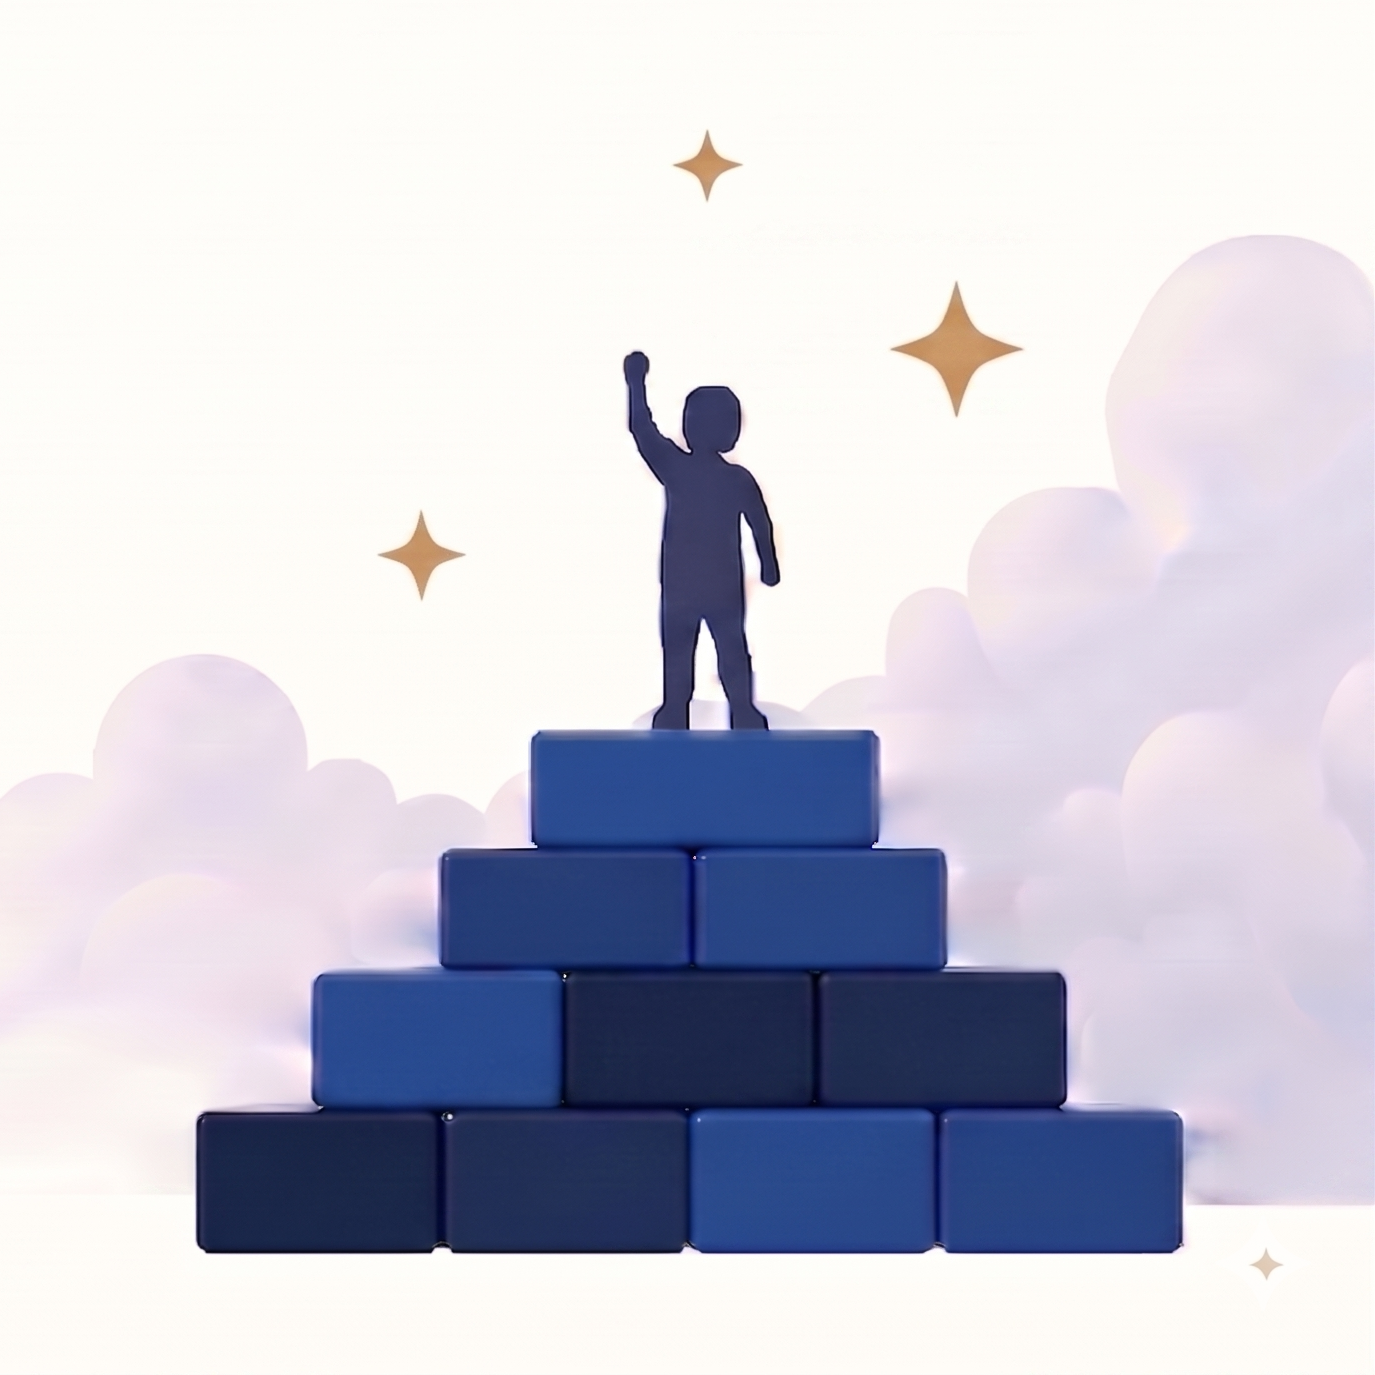
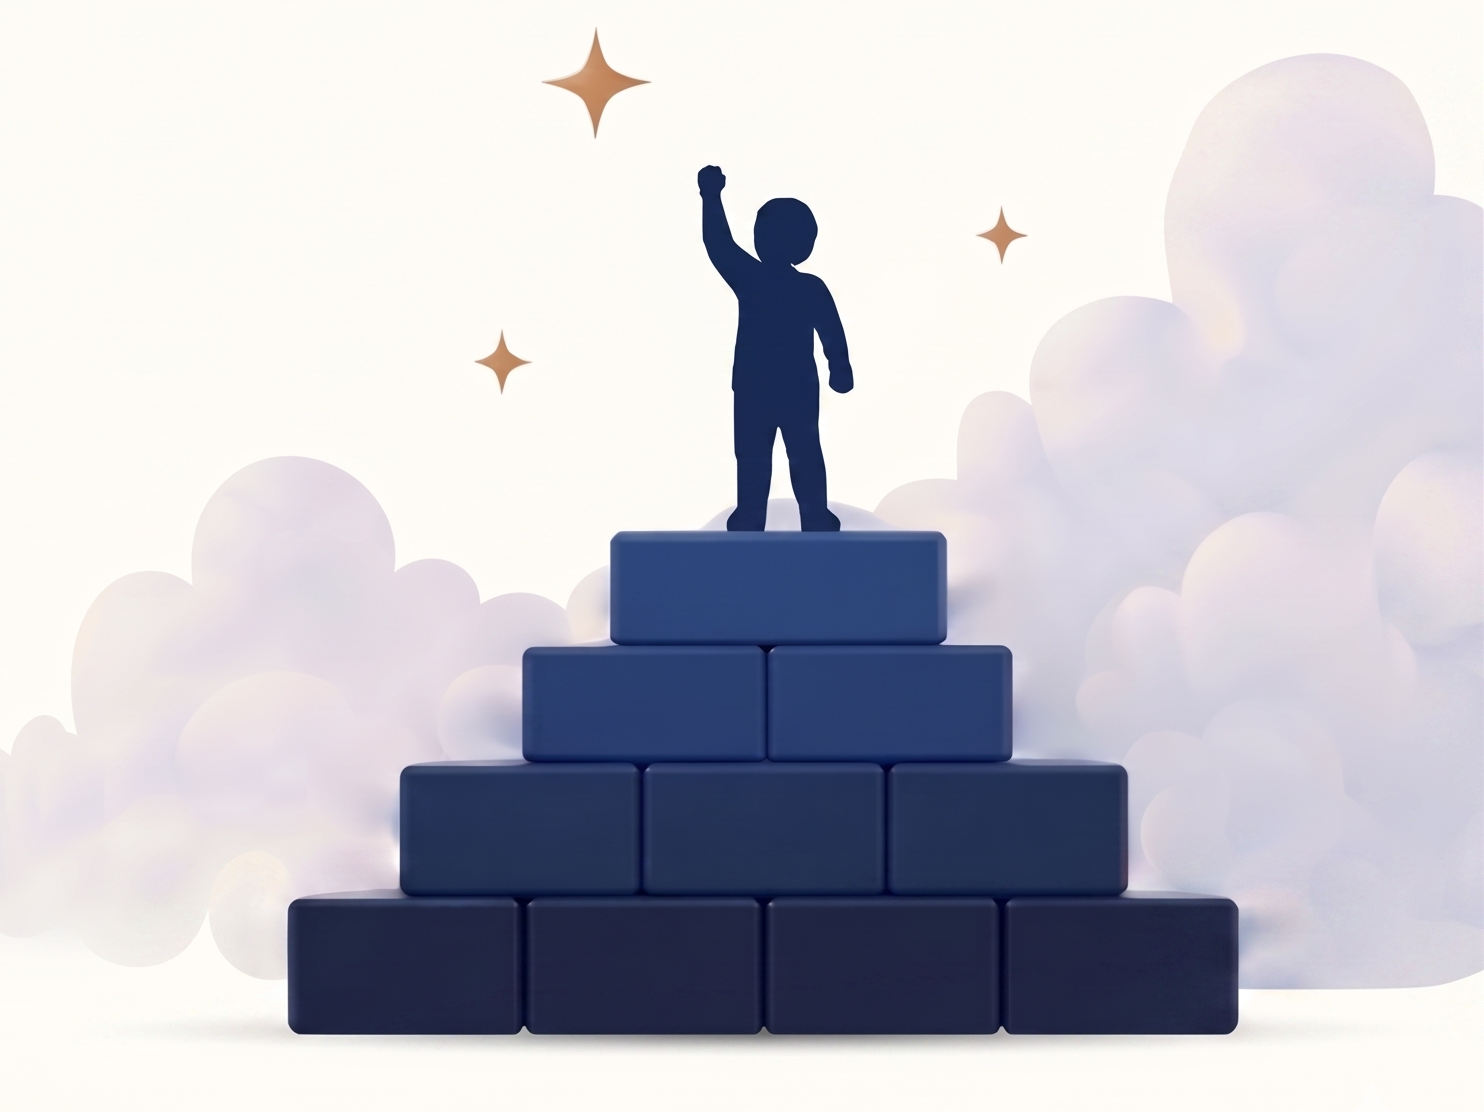
feat: add mobile background and center UI elements
Added mobile background image and updated the layout to center button and text components on mobile screens.

diff --git a/src/App.tsx b/src/App.tsx
@@ -124,9 +124,9 @@ export default function App() {
                 initial={{ y: 30, opacity: 0 }}
                 animate={{ y: 0, opacity: 1 }}
                 transition={{ delay: 0.4 }}
-                className="flex flex-col items-start gap-4 mt-2 w-full md:-ml-2"
+                className="flex flex-col items-center md:items-start gap-4 mt-2 w-full md:-ml-2"
               >
-                <div className="flex flex-col items-start w-fit">
+                <div className="flex flex-col items-center md:items-start w-fit">
                   <motion.button
                     onClick={() => setIsModalOpen(true)}
                     whileHover={{ scale: 1.05, backgroundColor: '#142952' }}
@@ -135,7 +135,7 @@ export default function App() {
                   >
                     Show interest
                   </motion.button>
-                  <p className="text-[13px] md:text-[14px] font-medium text-[#102142]/70 flex items-center justify-start gap-2 mt-3.5 w-full md:px-1">
+                  <p className="text-[13px] md:text-[14px] font-medium text-[#102142]/70 flex items-center justify-center md:justify-start gap-2 mt-3.5 w-full md:px-1">
                     <Mail className="w-[18px] h-[18px] opacity-60" strokeWidth={1.5} />
                     Be the first to know when we launch
                   </p>
@@ -184,13 +184,24 @@ export default function App() {
           </div>
 
           <div 
-            className="flex md:grid flex-row md:grid-cols-3 overflow-x-auto md:overflow-visible snap-x snap-mandatory md:snap-none gap-4 md:gap-6 lg:gap-8 w-full mt-4 pb-6 md:pb-0 scrollbar-hide -mx-4 px-4 sm:-mx-6 sm:px-6 md:mx-0 md:px-0"
+            className="flex md:grid flex-row md:grid-cols-3 overflow-x-auto md:overflow-visible snap-x snap-mandatory md:snap-none gap-4 md:gap-6 lg:gap-8 w-auto md:w-full mt-4 pb-6 md:pb-0 scrollbar-hide -mx-4 px-[7.5vw] sm:-mx-6 sm:px-[7.5vw] md:mx-0 md:px-0"
+            style={{ WebkitOverflowScrolling: 'touch' }}
             onScroll={(e) => {
               if (window.innerWidth < 768) {
                 const scrollLeft = e.currentTarget.scrollLeft;
-                const childWidth = (e.currentTarget.firstChild as HTMLElement)?.offsetWidth || window.innerWidth * 0.85;
-                const index = Math.round(scrollLeft / childWidth);
-                setProblemActiveIndex(Math.min(PROBLEM_CARDS.length - 1, Math.max(0, index)));
+                const parentCenter = scrollLeft + e.currentTarget.clientWidth / 2;
+                const children = Array.from(e.currentTarget.children) as HTMLElement[];
+                let closestIndex = 0;
+                let minDiff = Infinity;
+                children.forEach((child, idx) => {
+                  const childCenter = child.offsetLeft + child.offsetWidth / 2;
+                  const diff = Math.abs(childCenter - parentCenter);
+                  if (diff < minDiff) {
+                    minDiff = diff;
+                    closestIndex = idx;
+                  }
+                });
+                setProblemActiveIndex(closestIndex);
               }
             }}
           >
@@ -202,7 +213,7 @@ export default function App() {
                     whileInView={{ opacity: 1, y: 0 }}
                     viewport={{ once: true, margin: "-50px" }}
                     transition={{ delay: idx * 0.15, duration: 0.6, type: "spring", bounce: 0.4 }} 
-                    className="relative w-[85vw] md:w-full shrink-0 snap-center rounded-[1.5rem] bg-[#FFFFFF] p-2.5 border border-[#FFFFFF] shadow-[0_8px_32px_rgba(0,0,0,0.06)] flex flex-col z-10 hover:shadow-[0_16px_48px_rgba(30,75,153,0.12)] transition-all duration-500 group hover:-translate-y-1"
+                    className="relative w-[85vw] md:w-full shrink-0 snap-center snap-always rounded-[1.5rem] bg-[#FFFFFF] p-2.5 border border-[#FFFFFF] shadow-[0_8px_32px_rgba(0,0,0,0.06)] flex flex-col z-10 hover:shadow-[0_16px_48px_rgba(30,75,153,0.12)] transition-all duration-500 group hover:-translate-y-1"
                  >
                     {/* Top: Image Container */}
                     <div className="relative w-full aspect-[4/3] rounded-2xl overflow-hidden mb-3 md:mb-4 shrink-0 group-hover:scale-[0.98] transition-transform duration-500">